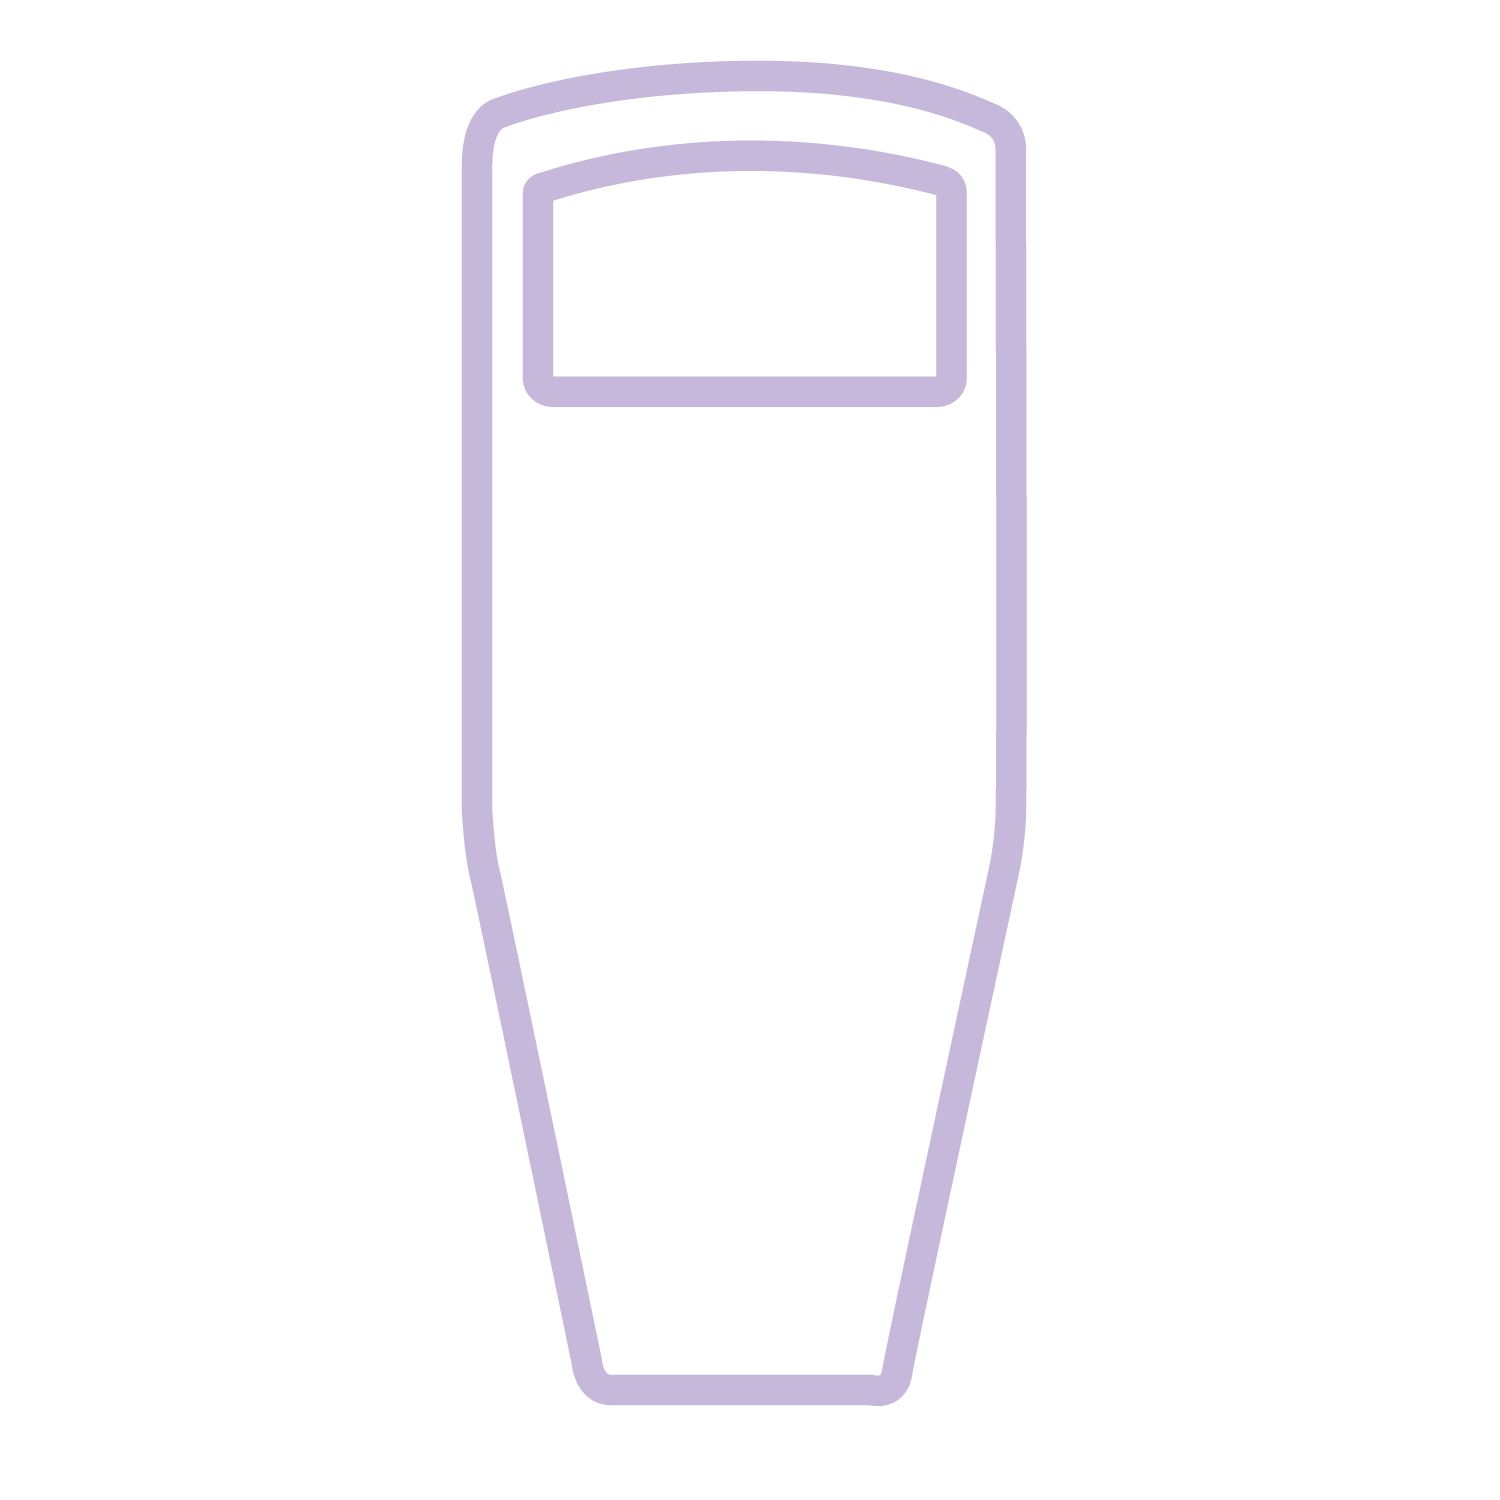
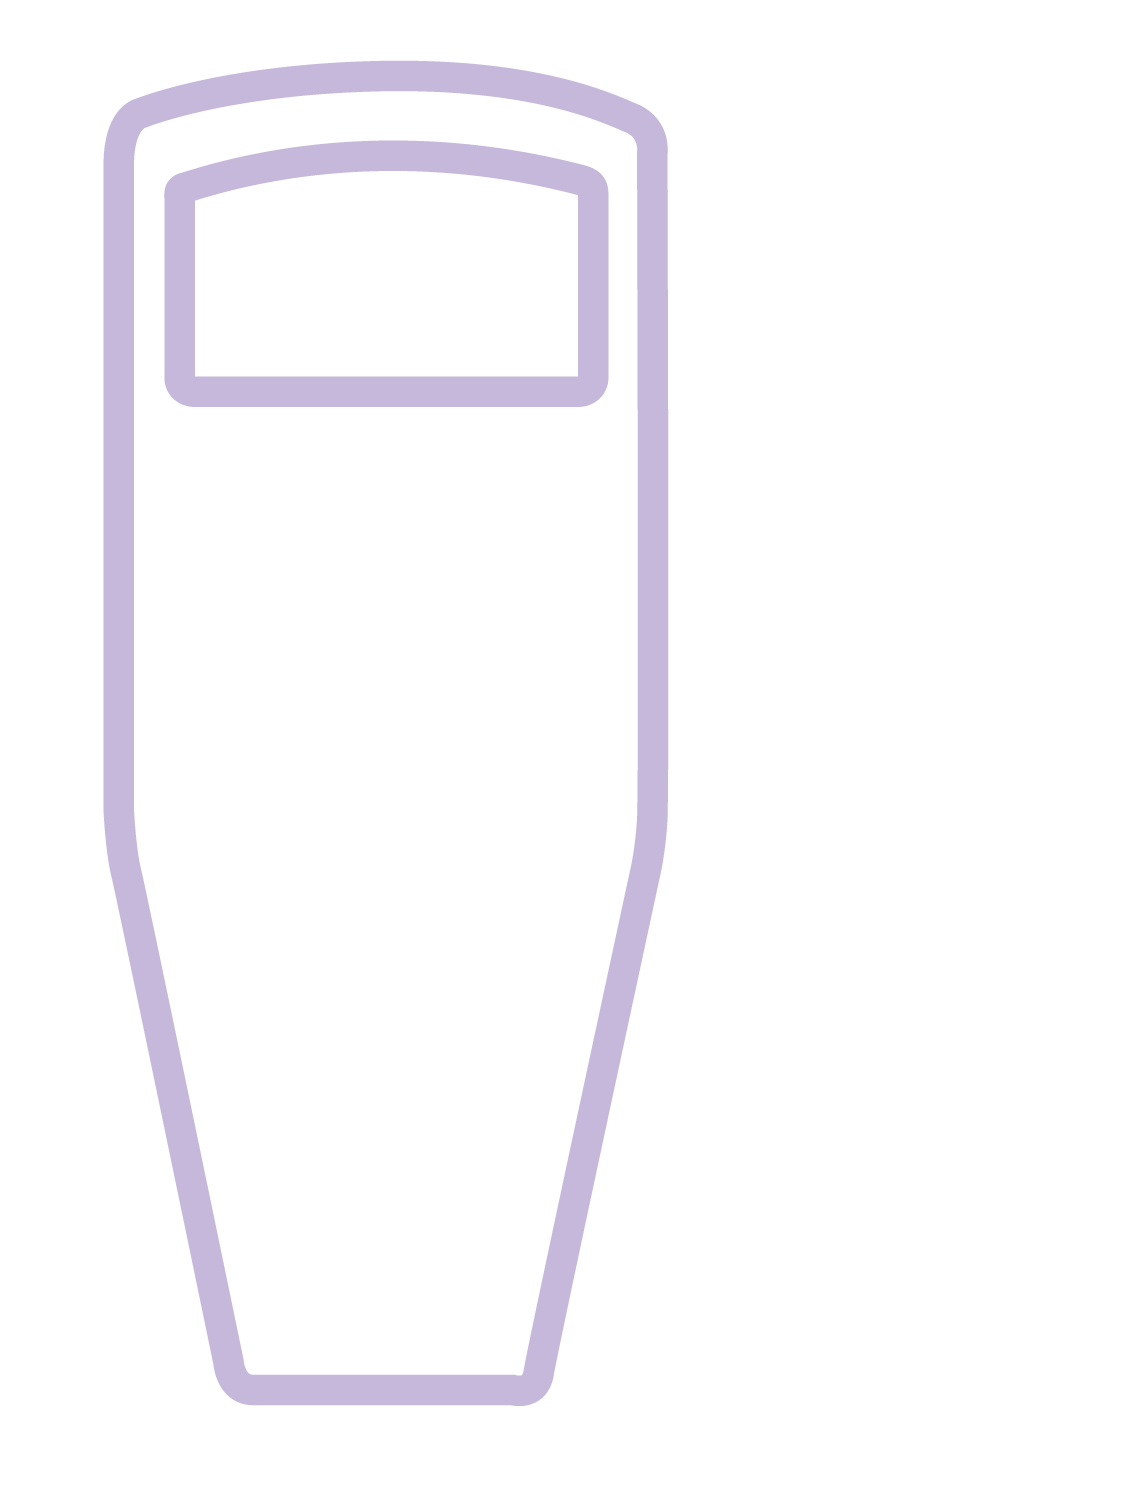
home page basically done?

Changed region(s): [[0.0919, 0.0307, 0.7049, 0.9507]]

diff --git a/style.css b/style.css
@@ -101,7 +101,9 @@ h2, h3 {
 footer {
     color: var(--purple);
     margin: 0 auto;
-    text-align: center;
+    text-align: left;
+    padding-top: 100px;
+    padding-left: 20px;
 }
 
 
@@ -130,7 +132,7 @@ footer {
 .background-image-home {
     background-image: url(samandcolby.png);
     background-repeat: no-repeat;
-    background-position: right 300px;
+    background-position: right 200px;
     background-origin: content-box;
     background-size: contain;
     width: 100%;
@@ -180,7 +182,8 @@ footer {
   overflow: hidden;
   width: 100%;
   white-space: nowrap;
-  margin-bottom: 50px;
+  background-color: var(--orange);
+  padding: 15px;
 }
 
 .marquee-track {
@@ -195,7 +198,7 @@ footer {
   font-size: 30px;
   font-family: "Azeret Mono", monospace;
     font-optical-sizing: auto;
-    color: var(--orange);
+    color: var(--darkpurple);
     word-spacing: 30px;
     font-weight: 800;
 
@@ -210,9 +213,39 @@ footer {
   }
 }
 
-/* Optional: Pause when the user hovers over the text */
 .marquee-container:hover .marquee-track {
   animation-play-state: paused;
+}
+
+.merch-container {
+    background-color: var(--purple);
+    max-width: 100%;
+    margin: 0 auto;
+    padding: 40px;
+    display: flex;
+    justify-content: center;
+    align-items: center;
+}
+
+.merch-images img {
+    max-width: 19%;
+    height: auto;
+}
+
+.merch-button {
+    display: inline-block;
+    background-color: var(--purple);
+    color: var(--darkpurple);
+    padding: 10px 20px;
+    margin-top: 20px;
+    border: 2px solid var(--purple);
+    border-radius: 50px;
+    transition: background-color 450ms ease, color 450ms ease;
+}
+
+.merch-button:hover {
+    background-color: var(--darkpurple);
+    color: var(--purple);
 }
 
 /* EQUIPMENT */

diff --git a/index.html b/index.html
@@ -84,8 +84,18 @@
             </div>
         </div>
 
+    <div class="merch-container">
+        <div class="merch-images">
+            <img src="hoodie.png" alt="">
+            <img src="sweatshirt.png" alt="">
+            <img src="ouija.png" alt="">
+            <img src="tanktop.png" alt="">
+            <img src="shirt.png" alt="">
+        </div>
+    </div>
+
     <div>
-        <img src=""
+        <a href="https://shopxplr.com/collections/shop-all" class="merch-button" target="_blank">shop xplr</a>
     </div>
 
     </div>
